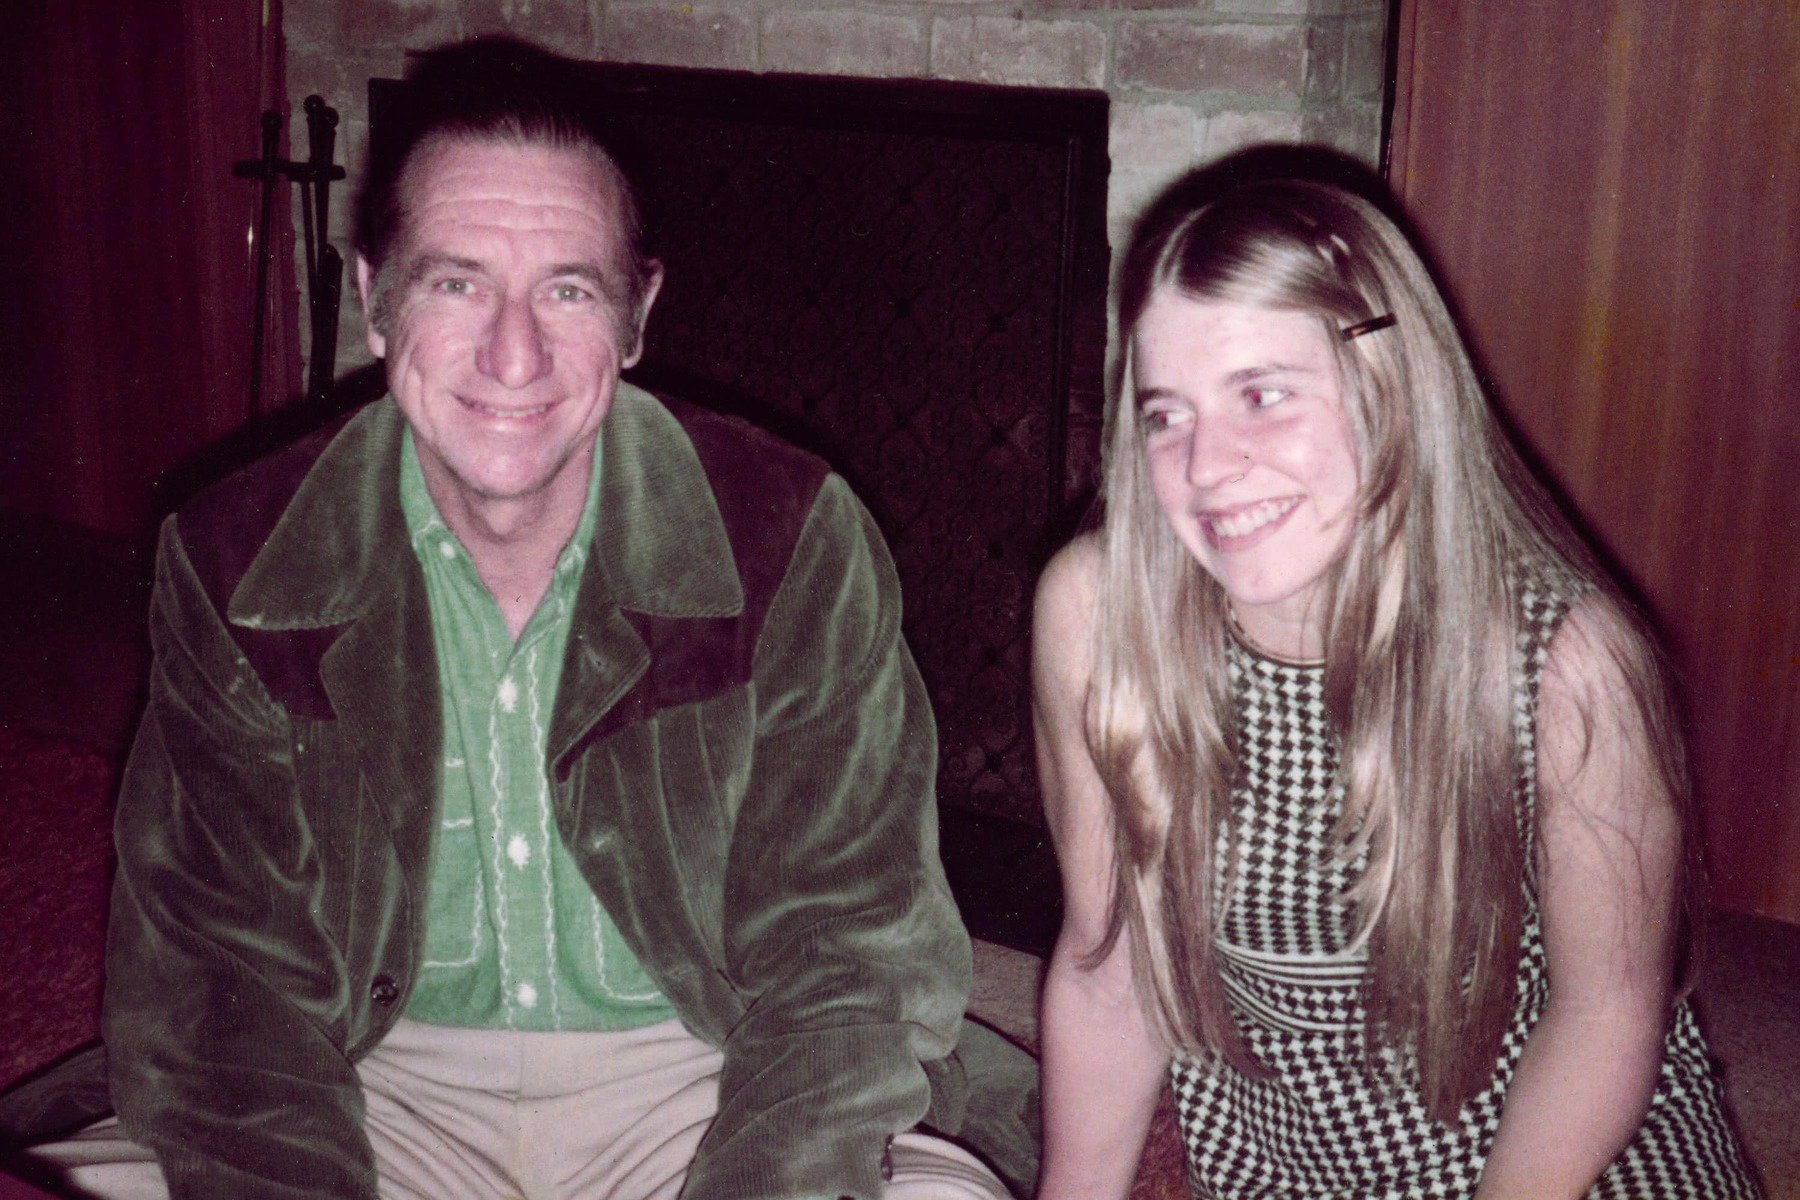
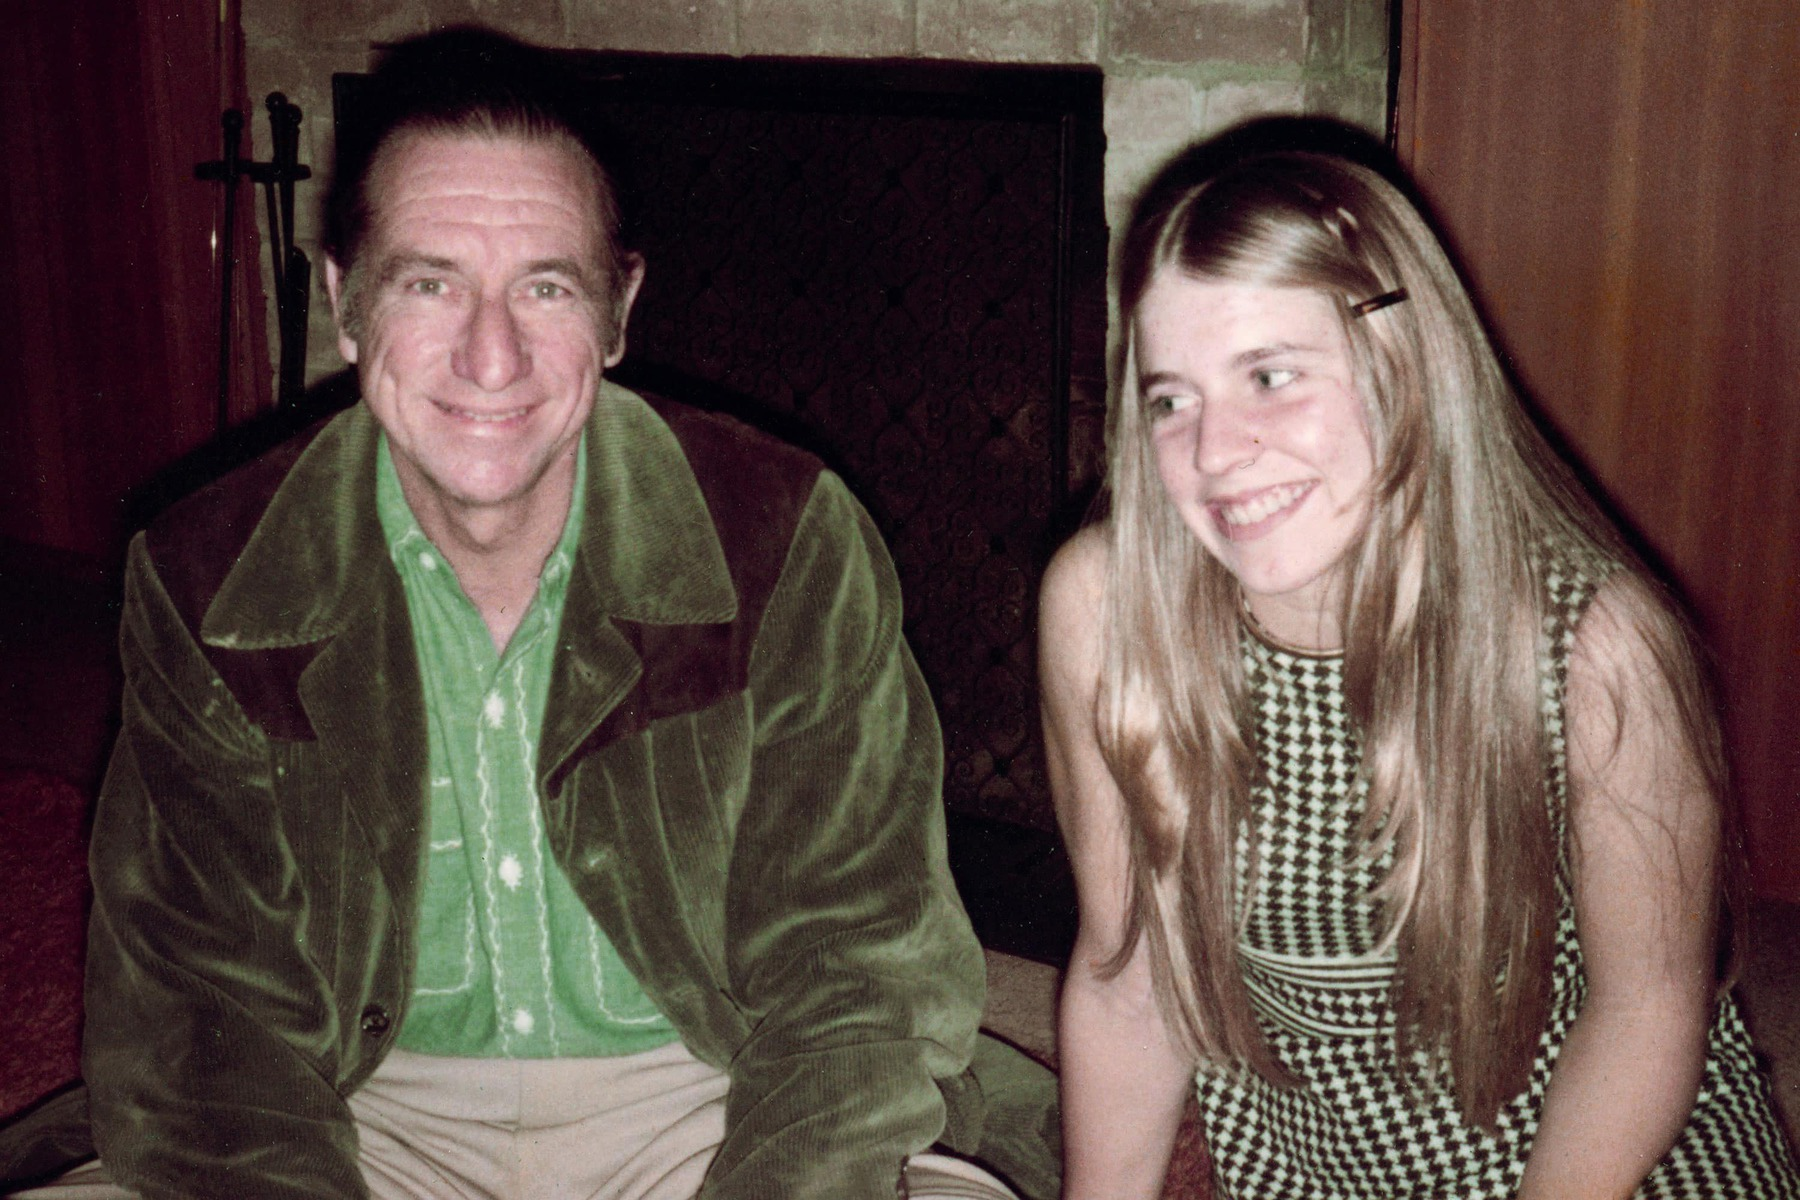
Swaps Barbara photo for non-red eye version. Adjusts image border size.

diff --git a/public/css/styles-bundle.css b/public/css/styles-bundle.css
@@ -1049,7 +1049,7 @@ XX. ADS
   margin-bottom: 3.2rem; }
 
 .borderImage {
-  padding: 3%;
+  padding: 20px;
   background: url("../images/_imageBorder.jpg");
   box-shadow: 0px 0px 8px rgba(25, 25, 25, 0.5);
   border-radius: 5px; }

diff --git a/build/static/sass/+custom.scss b/build/static/sass/+custom.scss
@@ -272,7 +272,7 @@
 ////////////////////////////////////
 
 .borderImage {
-  padding: 3%;
+  padding: 20px;
   background: url('../images/_imageBorder.jpg');
   box-shadow: 0px 0px 8px rgba(25,25,25,.5);
   border-radius: 5px;

diff --git a/build/static/css/common/+custom.scss.css b/build/static/css/common/+custom.scss.css
@@ -239,7 +239,7 @@
   margin-bottom: 3.2rem; }
 
 .borderImage {
-  padding: 3%;
+  padding: 20px;
   background: url("../images/_imageBorder.jpg");
   box-shadow: 0px 0px 8px rgba(25, 25, 25, 0.5);
   border-radius: 5px; }
